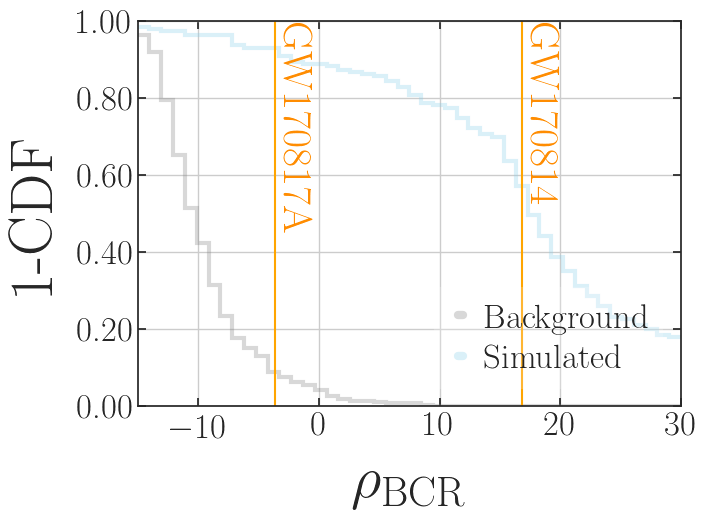
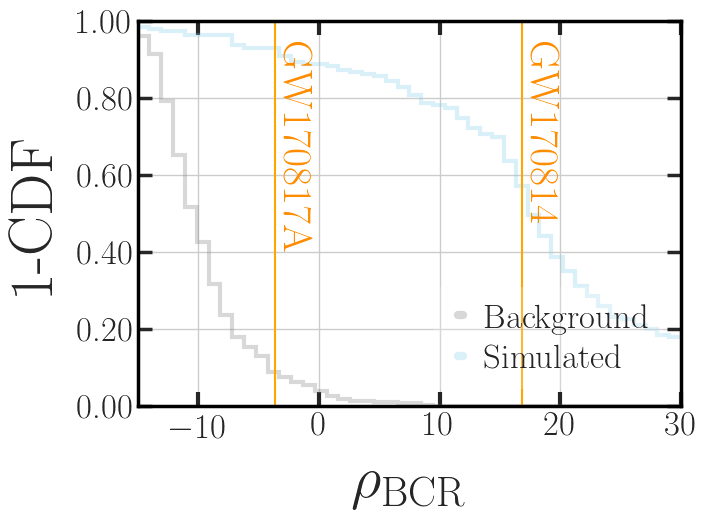
make plots pretty

Changed region(s): [[0.187, 0.0308, 0.966, 0.8015]]

diff --git a/scripts/make_template_plot.py b/scripts/make_template_plot.py
@@ -5,13 +5,29 @@ from matplotlib import pyplot as plt
 from matplotlib import rcParams
 from tqdm import tqdm
 
-rcParams["font.size"] = 20
+rcParams["font.size"] = 30
 rcParams["font.family"] = "serif"
 rcParams["font.sans-serif"] = ["Computer Modern Sans"]
-rcParams["text.usetex"] = False
+rcParams["text.usetex"] = True
 rcParams['axes.labelsize'] = 30
 rcParams['axes.titlesize'] = 30
-rcParams['axes.labelpad'] = 20
+rcParams['axes.labelpad'] = 10
+rcParams['axes.linewidth'] = 2.5
+rcParams['axes.edgecolor'] = 'black'
+rcParams['xtick.labelsize'] = 25
+rcParams['xtick.major.size'] = 10.0
+rcParams['xtick.minor.size'] = 5.0
+rcParams['ytick.labelsize'] = 25
+rcParams['ytick.major.size'] = 10.0
+rcParams['ytick.minor.size'] = 5.0
+plt.rcParams['xtick.direction'] = 'in'
+plt.rcParams['ytick.direction'] = 'in'
+plt.rcParams['xtick.minor.width'] = 1
+plt.rcParams['xtick.major.width'] = 3
+plt.rcParams['ytick.minor.width'] = 1
+plt.rcParams['ytick.major.width'] = 2.5
+plt.rcParams['xtick.top'] = True
+plt.rcParams['ytick.right'] = True
 
 BANK = "../data/template_bank.csv"
 INJECTION = "../data/chunk14/injection_triggers.csv"
@@ -141,7 +157,7 @@ def plot_template_bank():
     m2_range = [1, 200]
 
     fig, ax_m1m2 = plt.subplots(nrows=1, ncols=1,
-                                figsize=(12, 6))  # 3, 2
+                                figsize=(13, 6))  # 3, 2
 
     axis_label_kwargs = dict(fontsize="x-large")
 
@@ -154,7 +170,7 @@ def plot_template_bank():
     ax_m1m2.set_xscale("log")
 
     # set scale limits
-    ax_m1m2.set_xlim(m1_range[0], m1_range[1])
+    ax_m1m2.set_xlim(m1_range[0], m1_range[1]+100)
     ax_m1m2.set_ylim(m2_range[0], m2_range[1])
 
     # contour line
@@ -169,7 +185,7 @@ def plot_template_bank():
                         **scatter_data["plot_kwargs"])
 
     bank_patch = ax_m1m2.scatter([], [], label="Template Bank", marker=".", color="pink")
-    prior_patch = ax_m1m2.plot([], [], label="Prior", linestyle="--", color="k")
+    prior_patch, = ax_m1m2.plot([], [], label="Prior", linestyle="--", color="k")
     fg_patch = ax_m1m2.scatter([], [], label="Foreground Triggers", marker="s", color="orange")
     bg_patch = ax_m1m2.scatter([], [], label="Background Triggers", marker=".", color="gray")
     inj_patch = ax_m1m2.scatter([], [], label="Simulated Triggers", marker=".", color="skyblue")

diff --git a/scripts/make_bcr_cdf.py b/scripts/make_bcr_cdf.py
@@ -6,15 +6,32 @@ from matplotlib import pyplot as plt
 from matplotlib import rcParams
 from matplotlib.lines import Line2D
 
+
 rcParams["font.size"] = 30
 rcParams["font.family"] = "serif"
 rcParams["font.sans-serif"] = ["Computer Modern Sans"]
 rcParams["text.usetex"] = True
 rcParams['axes.labelsize'] = 30
-rcParams['xtick.labelsize'] = 25
-rcParams['ytick.labelsize'] = 25
 rcParams['axes.titlesize'] = 30
 rcParams['axes.labelpad'] = 10
+rcParams['axes.linewidth'] = 2.5
+rcParams['axes.edgecolor'] = 'black'
+rcParams['xtick.labelsize'] = 25
+rcParams['xtick.major.size'] = 10.0
+rcParams['xtick.minor.size'] = 5.0
+rcParams['ytick.labelsize'] = 25
+rcParams['ytick.major.size'] = 10.0
+rcParams['ytick.minor.size'] = 5.0
+plt.rcParams['xtick.direction'] = 'in'
+plt.rcParams['ytick.direction'] = 'in'
+plt.rcParams['xtick.minor.width'] = 1
+plt.rcParams['xtick.major.width'] = 3
+plt.rcParams['ytick.minor.width'] = 1
+plt.rcParams['ytick.major.width'] = 2.5
+plt.rcParams['xtick.top'] = True
+plt.rcParams['ytick.right'] = True
+
+
 
 BANK = "../data/template_bank.csv"
 INJECTION = "../data/chunk21_res/injection_res.csv"
@@ -46,7 +63,7 @@ def plot():
         event_txt = x_in_q["trigger_label"].split(":")[1]
         ax_cdf.axvline(x=xval, color=c)
         ax_cdf.annotate(
-            event_txt, xy=(xval, 1), ha='left', va='top', rotation=-90,
+            event_txt, xy=(xval, 0.95), ha='left', va='top', rotation=-90,
             color="#ff8c00", fontweight="extra bold", fontfamily='sans-serif')
 
     # add_foreground_events_to_plot(ax_cdf, plot_data['foreground']['df'],
@@ -73,7 +90,7 @@ def plot():
     frame = l.get_frame()
     frame.set_linewidth(0)
 
-    fname = '../images/bcr_cdf.png'
+    fname = '../images/bcr_cdf_smaller_legend.png'
     fig.savefig(fname, bbox_extra_artists=[l], bbox_inches='tight')
     print("Saved fig")
 
